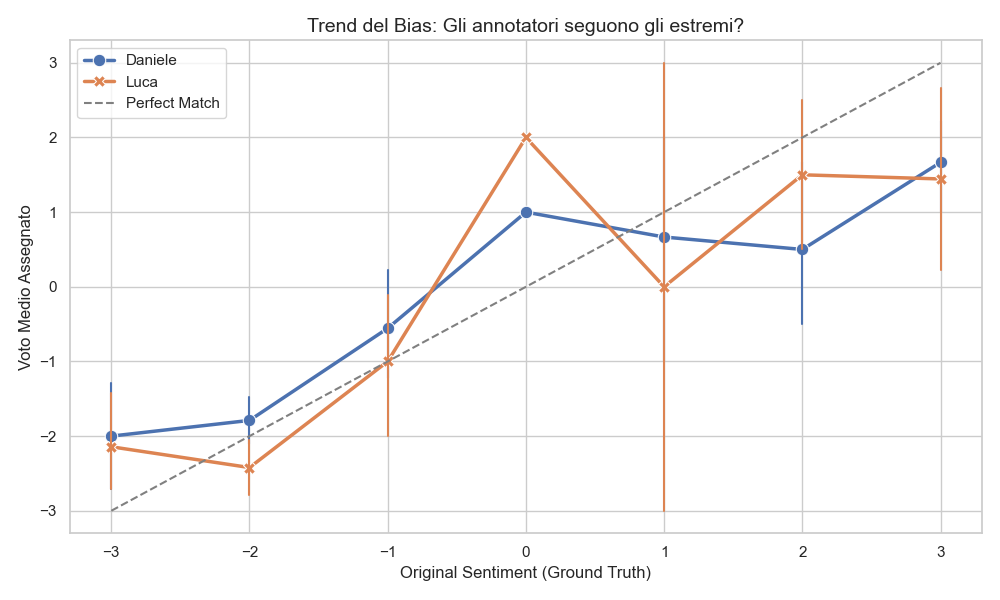
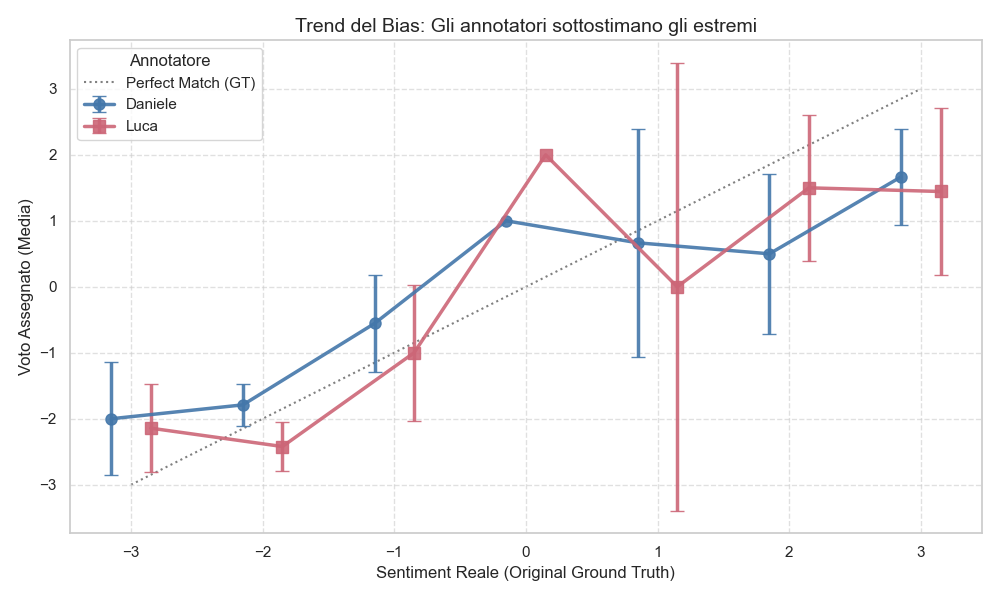
fix

diff --git a/src/tts/bark_v2/annotations_app/correlation_study.py b/src/tts/bark_v2/annotations_app/correlation_study.py
@@ -96,7 +96,7 @@ for name, df in [("Daniele", df1), ("Luca", df2)]:
 print_metrics_section("VALIDITÀ VS GOLD STANDARD (Text Only)", validity_results)
 
 
-# --- 3. GENERAZIONE GRAFICI ---
+# --- 3. GENERAZIONE GRAFICI AGGIORNATA ---
 
 # Prepariamo dataset unico per i grafici (Solo Text Only per confronto con GT)
 df_plot = pd.concat(
@@ -106,30 +106,76 @@ df_plot = pd.concat(
     ]
 )
 
-# GRAFICO 1: Bias Trend (Lineplot)
+# --- GRAFICO 1: BIAS TREND (Metodo "Manuale" per allineamento perfetto) ---
+# Questo metodo calcola prima le medie e poi usa plt.errorbar.
+# Risolve definitivamente il problema dell'asse sfalsato e della sovrapposizione.
+
 plt.figure(figsize=(10, 6))
-sns.lineplot(
-    data=df_plot,
-    x="original_sentiment",
-    y="human_rating",
-    hue="Annotator",
-    style="Annotator",
-    markers=True,
-    dashes=False,
-    err_style="bars",
-    linewidth=2.5,
-    markersize=9,
+
+# 1. Aggreghiamo i dati per calcolare Media e Intervallo di Confidenza (CI)
+# Calcoliamo media e errore standard (sem) per ogni punto
+agg_data = (
+    df_plot.groupby(["Annotator", "original_sentiment"])["human_rating"]
+    .agg(["mean", "count", "std"])
+    .reset_index()
 )
-plt.plot([-3, 3], [-3, 3], color="gray", linestyle="--", label="Perfect Match")
-plt.title("Trend del Bias: Gli annotatori seguono gli estremi?", fontsize=14)
-plt.xlabel("Original Sentiment (Ground Truth)")
-plt.ylabel("Voto Medio Assegnato")
-plt.legend()
+# Calcoliamo l'intervallo di confidenza al 95% (1.96 * std / sqrt(n))
+agg_data["ci"] = 1.96 * agg_data["std"] / np.sqrt(agg_data["count"])
+
+# 2. Impostiamo i colori e gli stili
+styles = {
+    "Daniele": {
+        "color": "#4477AA",
+        "marker": "o",
+        "shift": -0.15,
+    },  # Daniele spostato a sx
+    "Luca": {"color": "#CC6677", "marker": "s", "shift": +0.15},  # Luca spostato a dx
+}
+
+# 3. Disegniamo manualmente le linee con errorbar
+for annotator in ["Daniele", "Luca"]:
+    subset = agg_data[agg_data["Annotator"] == annotator]
+    style = styles[annotator]
+
+    # Applichiamo lo shift (jitter) all'asse X per evitare sovrapposizioni
+    x_shifted = subset["original_sentiment"] + style["shift"]
+
+    plt.errorbar(
+        x=x_shifted,
+        y=subset["mean"],
+        yerr=subset["ci"],
+        label=annotator,
+        fmt=f"-{style['marker']}",  # Linea + Marker
+        color=style["color"],
+        linewidth=2.5,
+        markersize=8,
+        capsize=5,  # Cappuccetti alle barre di errore
+        alpha=0.9,
+    )
+
+# 4. Linea diagonale perfetta (Ground Truth)
+# Ora che l'asse è numerico, questa linea sarà perfettamente allineata
+plt.plot(
+    [-3, 3], [-3, 3], color="gray", linestyle=":", label="Perfect Match (GT)", zorder=0
+)
+
+# 5. Rifiniture grafiche
+plt.title("Trend del Bias: Gli annotatori sottostimano gli estremi", fontsize=14)
+plt.xlabel("Sentiment Reale (Original Ground Truth)", fontsize=12)
+plt.ylabel("Voto Assegnato (Media)", fontsize=12)
+plt.legend(title="Annotatore", loc="upper left")
+plt.grid(True, linestyle="--", alpha=0.6)
+
+# Forziamo gli assi a mostrare tutti i numeri interi da -3 a 3
+plt.xticks(range(-3, 4))
+plt.yticks(range(-3, 4))
+
 plt.tight_layout()
 plt.savefig("src/tts/bark_v2/annotations_app/results/1_bias_trend.png")
-print("\n[Grafico salvato]: 1_bias_trend.png")
+print("\n[Grafico salvato]: 1_bias_trend.png (Versione corretta)")
 
-# GRAFICO 2: Matrici di Confusione (Heatmap)
+
+# --- GRAFICO 2: MATRICI DI CONFUSIONE (Invariato) ---
 fig, axes = plt.subplots(1, 2, figsize=(14, 6), sharey=True)
 classes = range(-3, 4)  # Da -3 a +3
 
@@ -159,17 +205,27 @@ plt.tight_layout()
 plt.savefig("src/tts/bark_v2/annotations_app/results/2_confusion_matrix.png")
 print("[Grafico salvato]: 2_confusion_matrix.png")
 
-# --- NUOVO GRAFICO 3: CONFRONTO ERRORE MEDIO (MAE) ---
-# Sostituisce il Box Plot
-plt.figure(figsize=(7, 6))
 
-# Dati manuali presi dai tuoi calcoli
-mae_values = [0.963, 1.185]
-annotators = ["Daniele", "Luca"]
-colors = ["#5DADE2", "#F5B041"]  # Blu e Arancione simili agli altri grafici
+# --- GRAFICO 3: CONFRONTO ERRORE MEDIO (MAE) - NUOVO ---
+# Calcoliamo il MAE dinamicamente dai dati
+mae_data = []
+for name in ["Daniele", "Luca"]:
+    sub_df = df_plot[df_plot["Annotator"] == name]
+    val = mean_absolute_error(sub_df["original_sentiment"], sub_df["human_rating"])
+    mae_data.append({"Annotator": name, "MAE": val})
+
+df_mae = pd.DataFrame(mae_data)
+
+plt.figure(figsize=(7, 6))
+colors = ["#5DADE2", "#F5B041"]  # Blu e Arancione
 
 bars = plt.bar(
-    annotators, mae_values, color=colors, width=0.5, edgecolor="black", alpha=0.8
+    df_mae["Annotator"],
+    df_mae["MAE"],
+    color=colors,
+    width=0.5,
+    edgecolor="black",
+    alpha=0.8,
 )
 
 # Aggiungiamo il numero sopra la barra
@@ -187,7 +243,7 @@ for bar in bars:
 
 plt.title("Errore Medio Assoluto (MAE)", fontsize=14)
 plt.ylabel("Errore Medio (Punti)", fontsize=12)
-plt.ylim(0, 1.5)  # Diamo un po' di aria sopra
+plt.ylim(0, df_mae["MAE"].max() + 0.5)  # Scala dinamica
 plt.grid(axis="y", linestyle="--", alpha=0.6)
 
 plt.tight_layout()
